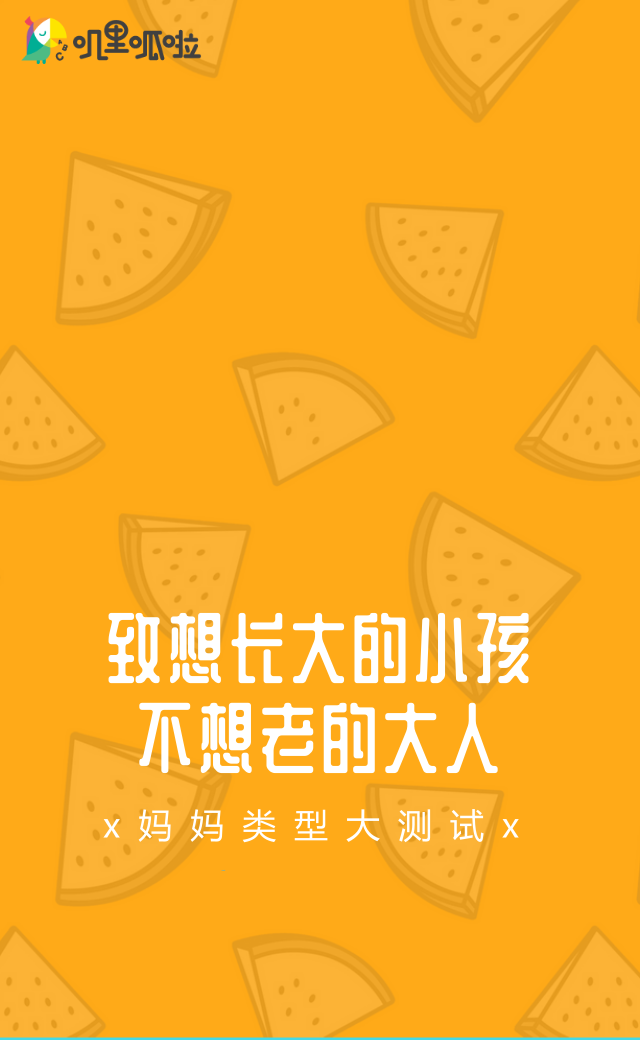
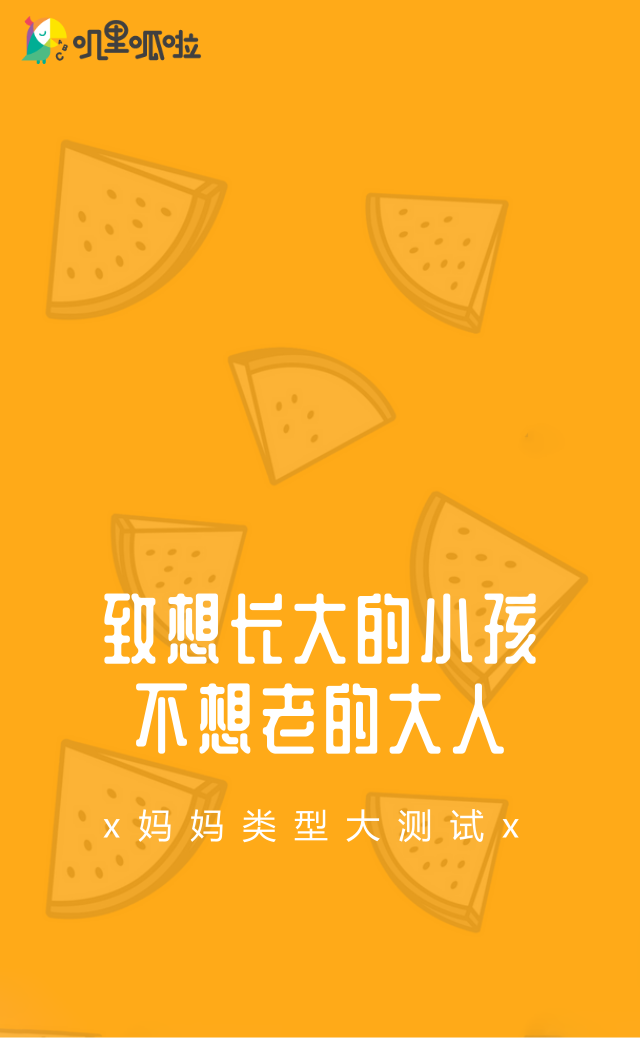
s

diff --git a/project/MotherStyle/WebContent/assets/canvas/scene/mainScene.js b/project/MotherStyle/WebContent/assets/canvas/scene/mainScene.js
@@ -86,6 +86,91 @@ mainScene.prototype.constructor = mainScene;
 /* --- end generated code --- */
 // -- user code here --
 
+mainScene.prototype.appreaDom = function () {
+	//获取屏幕可见宽高
+	// var screenWidth =  window.screen.availWidth;
+	// var screenHeight = window.screen.availHeight ;
+	// var screenWidth =  this.game.scale.bounds.width;
+	// var screenHeight = this.game.scale.bounds.height;
+	var screenWidth =  this.game.scale.dom.visualBounds.width;
+	var screenHeight = this.game.scale.dom.visualBounds.height ;
+
+	var img = $('#id_dom_1')[0];
+	img.src = 'assets/image/temp/dom01.png';
+	var tsWidth = Math.round(176/ this.game.scale.scaleFactor.x/window.devicePixelRatio);
+	var tsHeight = Math.round(176 / this.game.scale.scaleFactor.y/window.devicePixelRatio);
+	img.style.width = tsWidth + 'px';
+	img.style.width = tsHeight + 'px';
+
+	var img = $('#id_dom_2')[0];
+	img.src = 'assets/image/temp/dom02.png';
+	var tsWidth = Math.round(176/ this.game.scale.scaleFactor.x/window.devicePixelRatio);
+	var tsHeight = Math.round(176 / this.game.scale.scaleFactor.y/window.devicePixelRatio);
+	img.style.width = tsWidth + 'px';
+	img.style.width = tsHeight + 'px';
+	img.style.float = 'right';
+	img.style.marginRight = '-10px';
+
+	var img = $('#id_dom_3')[0];
+	img.src = 'assets/image/temp/dom03.png';
+	var tsWidth = Math.round(176/ this.game.scale.scaleFactor.x/window.devicePixelRatio);
+	var tsHeight = Math.round(176 / this.game.scale.scaleFactor.y/window.devicePixelRatio);
+	img.style.width = tsWidth + 'px';
+	img.style.width = tsHeight + 'px';
+	img.style.marginLeft = screenWidth - tsWidth + 'px';
+	img.style.marginTop = screenHeight - tsHeight*2 + 'px';
+
+	// var img = $('#id_dom_4')[0];
+	// img.src = 'assets/image/temp/dom04.png';
+	// var tsWidth = Math.round(176/ this.game.scale.scaleFactor.x/window.devicePixelRatio);
+	// var tsHeight = Math.round(176 / this.game.scale.scaleFactor.y/window.devicePixelRatio);
+	// img.style.width = tsWidth + 'px';
+	// img.style.width = tsHeight + 'px';
+	// img.style.float = 'left';
+	// img.style.marginTop = screenHeight/3+ 'px';
+	// img.style.marginLeft = '-10px';
+	//
+	//
+	// var img = $('#id_dom_5')[0];
+	// img.src = 'assets/image/temp/dom05.png';
+	// var tsWidth = Math.round(176/ this.game.scale.scaleFactor.x/window.devicePixelRatio);
+	// var tsHeight = Math.round(176 / this.game.scale.scaleFactor.y/window.devicePixelRatio);
+	// img.style.width = tsWidth + 'px';
+	// img.style.width = tsHeight + 'px';
+	// img.style.float = 'left';
+	// img.style.marginTop = screenHeight*3/5+ 'px';
+	// img.style.marginLeft = -tsWidth + 'px';
+
+	var img = $('#id_dom_6')[0];
+	img.src = 'assets/image/temp/dom06.png';
+	var tsWidth = Math.round(176/ this.game.scale.scaleFactor.x/window.devicePixelRatio);
+	var tsHeight = Math.round(176 / this.game.scale.scaleFactor.y/window.devicePixelRatio);
+	img.style.width = tsWidth*2 + 'px';
+	img.style.width = tsHeight*2 + 'px';
+	img.style.marginLeft = screenWidth/2 - tsWidth + 'px';
+	img.style.marginTop = tsHeight/4 + 'px';
+};
+
+mainScene.prototype.disappearDom = function () {
+	var img = $('#id_dom_1')[0];
+	img.style.opacity = 0;
+
+	var img = $('#id_dom_2')[0];
+	img.style.opacity = 0;
+
+	var img = $('#id_dom_3')[0];
+	img.style.opacity = 0;
+
+	var img = $('#id_dom_4')[0];
+	img.style.opacity = 0;
+
+	var img = $('#id_dom_5')[0];
+	img.style.opacity = 0;
+
+	var img = $('#id_dom_6')[0];
+	img.style.opacity = 0;
+};
+
 mainScene.prototype.appearGroup = function (group1, group2) {
 	this.fBgBtn.inputEnabled = true;
 
@@ -131,8 +216,6 @@ mainScene.prototype.disAppearGroup = function (group) {
 mainScene.prototype.initOnce = function () {
 	this.setAnchorMiddle(this.fMusic_btn);
 	this.fBgBtn.inputEnabled = false;
-
-
 
 	// var img = $('#id_leftUp')[0];
 	// img.src = 'assets/image/temp/1.png';

diff --git a/project/MotherStyle/WebContent/index.html b/project/MotherStyle/WebContent/index.html
@@ -84,6 +84,12 @@
             z-index: 1;
         }
 
+        .style_corner_dom {
+            positon:absolute;
+            height:0px;
+            z-index: 0;
+        }
+
         input, input:focus, input:active {
             user-select: text
         }
@@ -103,9 +109,18 @@
 <!--<div class="style_corner"><img src="assets/image/temp/touming.png" id="id_rightUp"></div>-->
 <!--<div class="style_corner"><img src="assets/image/temp/touming.png" id="id_rightDown"></div>-->
 
+    <div class="style_corner_dom" ><img src="assets/image/temp/touming.png" id="id_dom_1"></div>
+    <div class="style_corner_dom" ><img src="assets/image/temp/touming.png" id="id_dom_2"></div>
+    <div class="style_corner_dom" ><img src="assets/image/temp/touming.png" id="id_dom_3"></div>
+    <div class="style_corner_dom" ><img src="assets/image/temp/touming.png" id="id_dom_4"></div>
+    <div class="style_corner_dom" ><img src="assets/image/temp/touming.png" id="id_dom_5"></div>
+    <div class="style_corner_dom" ><img src="assets/image/temp/touming.png" id="id_dom_6"></div>
+
     <div class="style_corner_over"><img src="assets/image/temp/touming.png" id="id_pop_layer_up"></div>
     <div class="style_corner" ><img src="assets/image/temp/touming.png" id="id_leftUp"></div>
     <div class="style_corner" ><img src="assets/image/temp/touming.png" id="id_leftDown"></div>
+
+
     <div id="id_game" class="style_game"></div>
 </body>
 

diff --git a/project/MotherStyle/WebContent/assets/canvas/prefab/prefab_0.js b/project/MotherStyle/WebContent/assets/canvas/prefab/prefab_0.js
@@ -46,9 +46,13 @@ prefab_0.prototype.initOnce = function () {
 	var tween = this.game.add.tween(this.fBtnBegain.scale).to({x:1.1, y:1.1}, 389, Phaser.Easing.Linear.None,
 		true, 0, -1);
 	tween.yoyo(true);
+
+
 };
 
 prefab_0.prototype.clickBegain = function () {
 	gGame.gameScene.appearGroup2(this, gGame.gameScene.fGroup1);
+
+	gGame.gameScene.appreaDom();
 };
 

diff --git a/project/MotherStyle/WebContent/js/Boot.js b/project/MotherStyle/WebContent/js/Boot.js
@@ -26,7 +26,7 @@ Boot.prototype.preload = function() {
 	this.load.pack("boot", "assets/pack.json");
 	this.load.pack("temp", "assets/pack.json");
 	//document.body.style.background="#ffaa18";
-	//this.game.stage.backgroundColor = '#ffffff';
+	this.game.stage.backgroundColor = '#ffaa18';
 };
 
 Boot.prototype.create = function() {

diff --git a/project/MotherStyle/WebContent/assets/canvas/prefab/overPrefab.js b/project/MotherStyle/WebContent/assets/canvas/prefab/overPrefab.js
@@ -68,6 +68,8 @@ overPrefab.prototype.constructor = overPrefab;
 // -- user code here --
 
 overPrefab.prototype.initOnce = function () {
+	gGame.gameScene.disappearDom();
+
 	var score = 0;
 
 	var ballArr = [
